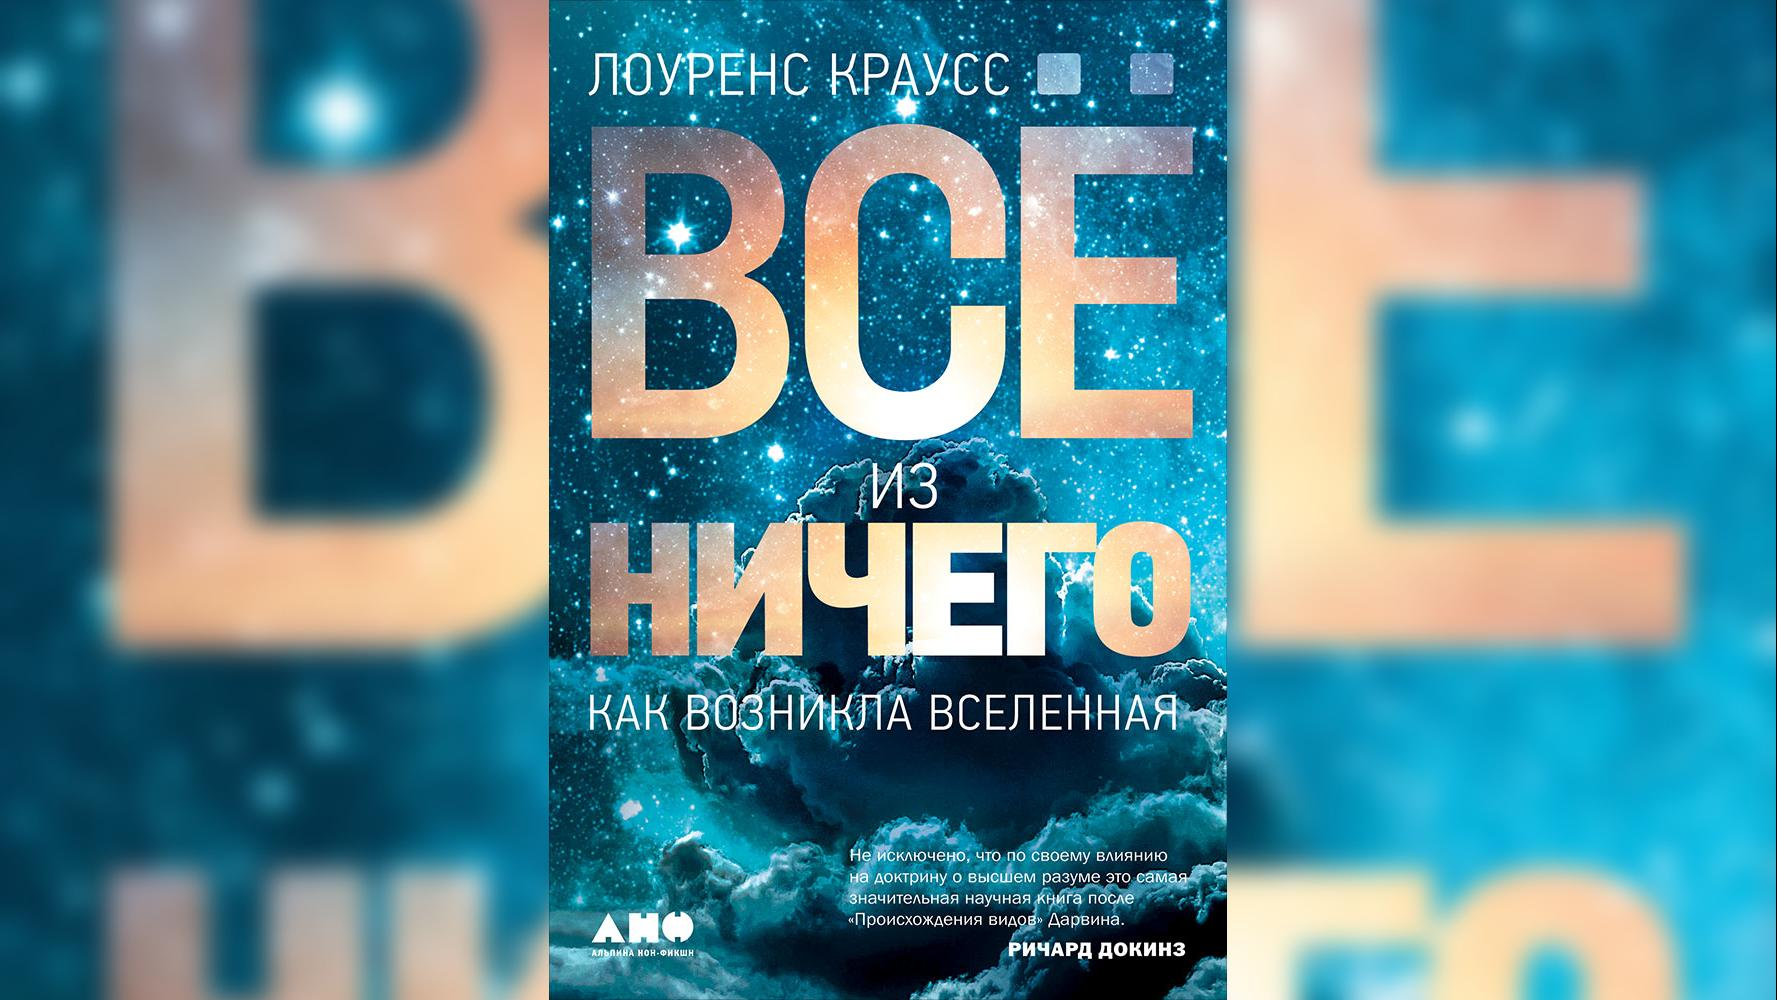
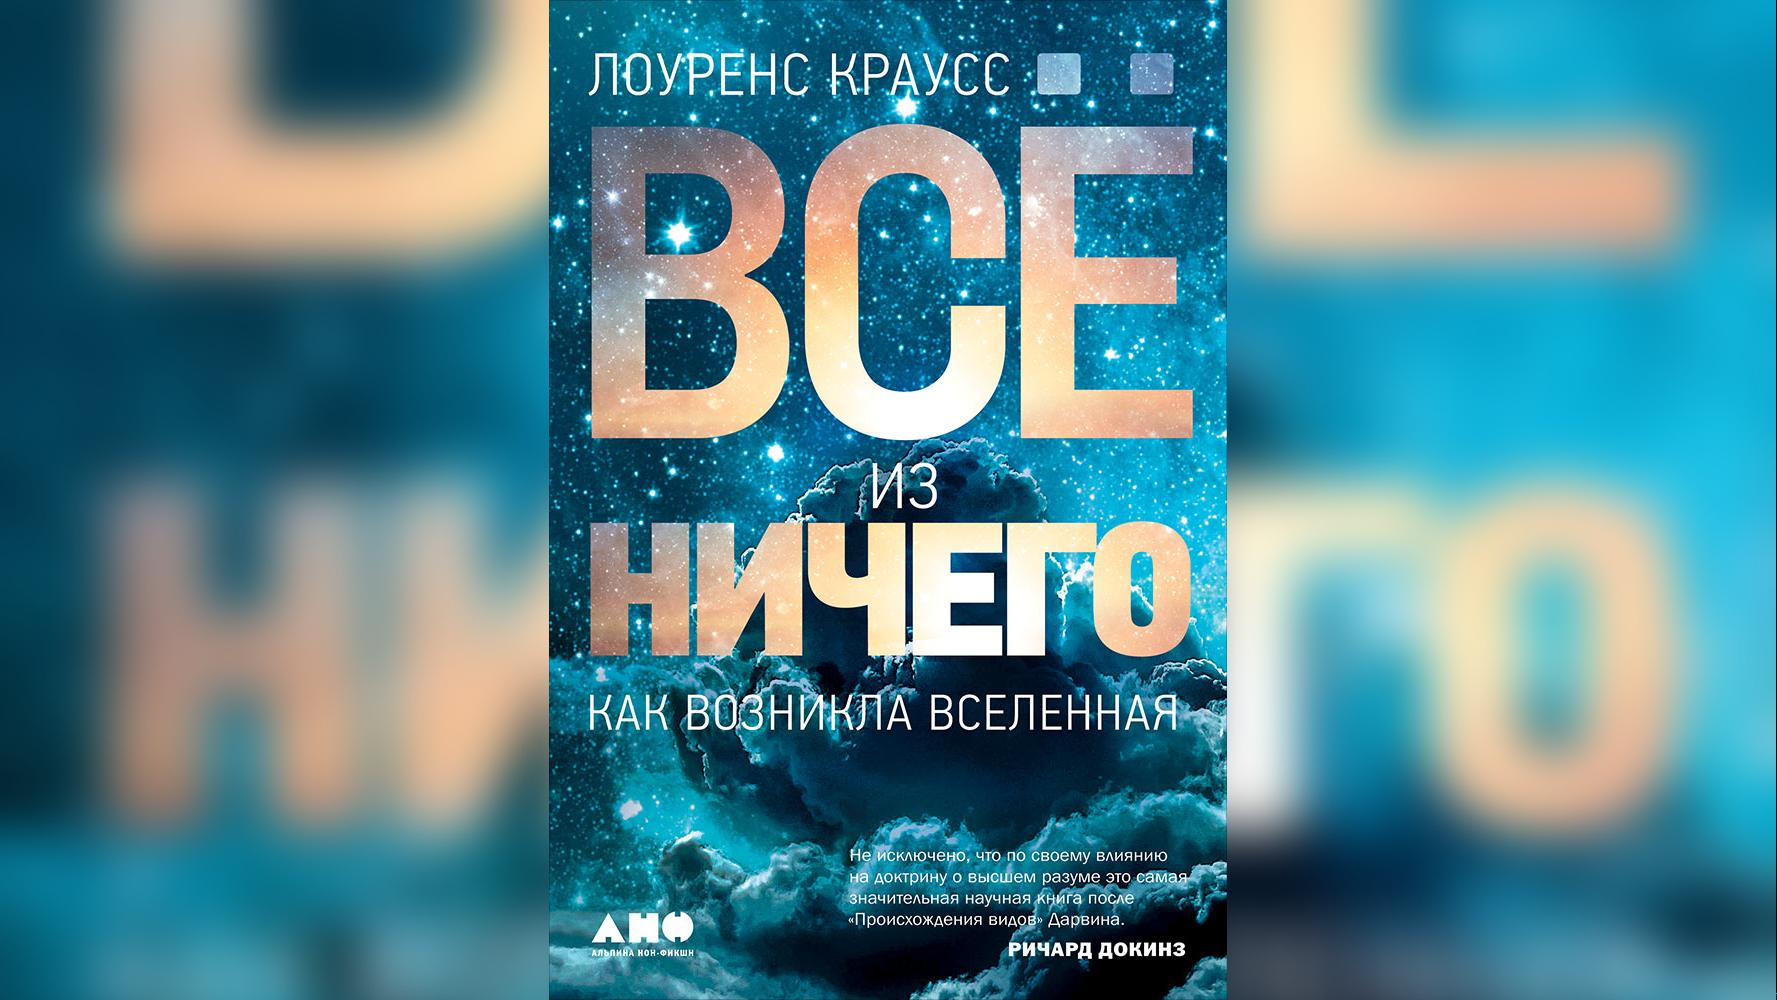
Done

diff --git a/main.py b/main.py
@@ -1,16 +1,17 @@
 from PIL import Image, ImageFilter
 
 in_image = Image.open('input.jpeg')  # исходная картинка
-blur_image = in_image.filter(ImageFilter.GaussianBlur(5))  # блюрим картинку
+blur_image = in_image.filter(ImageFilter.GaussianBlur(10))  # блюрим картинку
 
 in_width, in_height = in_image.size  # размеры исходной картинки
 out_height, out_width = in_height, int(16 * in_height / 9)  # размеры того, что должно у нас получится на выходе
 
 multiplier = out_width / in_width  # коэфициент растяжения заблюренной картинки до итоговой картинки
 new_size = (int(blur_image.size[0] * multiplier), int(blur_image.size[1] * multiplier))  # растягиваем
+blur_image = blur_image.resize(new_size)  # растягиваем
 
 out_image = Image.new('RGB', (out_width, out_height))  # пустое итоговое изображение
-out_image.paste(blur_image.resize(new_size), (0, -500))  # вставляем заблюренную картинку в итоговую
+out_image.paste(blur_image, (0, int(- blur_image.size[0] / 2)))  # вставляем заблюренную картинку в итоговую
 out_image.paste(in_image, (int(out_width / 2 - in_width / 2), 0))  # вставляем оригинальную картинку в итоговую
 
-out_image.save('merged.jpg') # сохраняем итоговое изображение
+out_image.save('merged.jpg')  # сохраняем итоговое изображение
